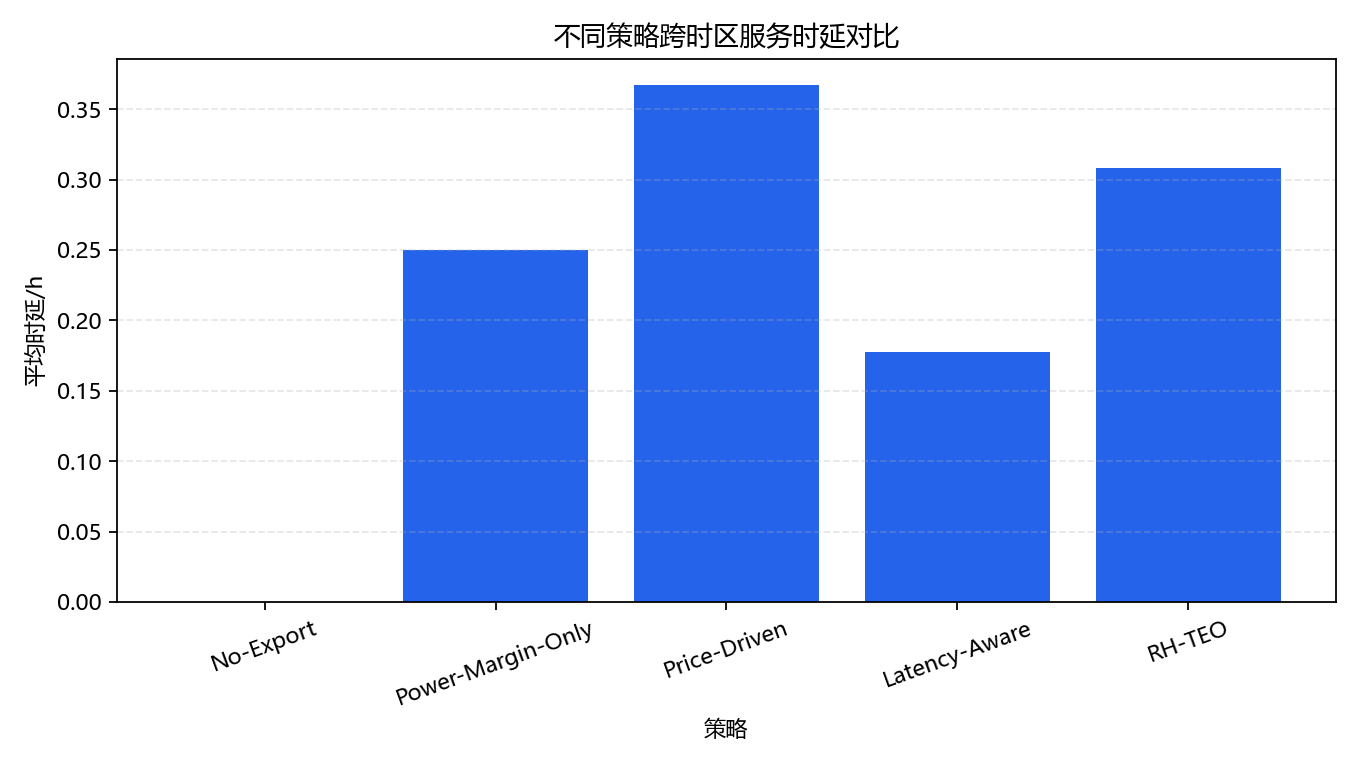
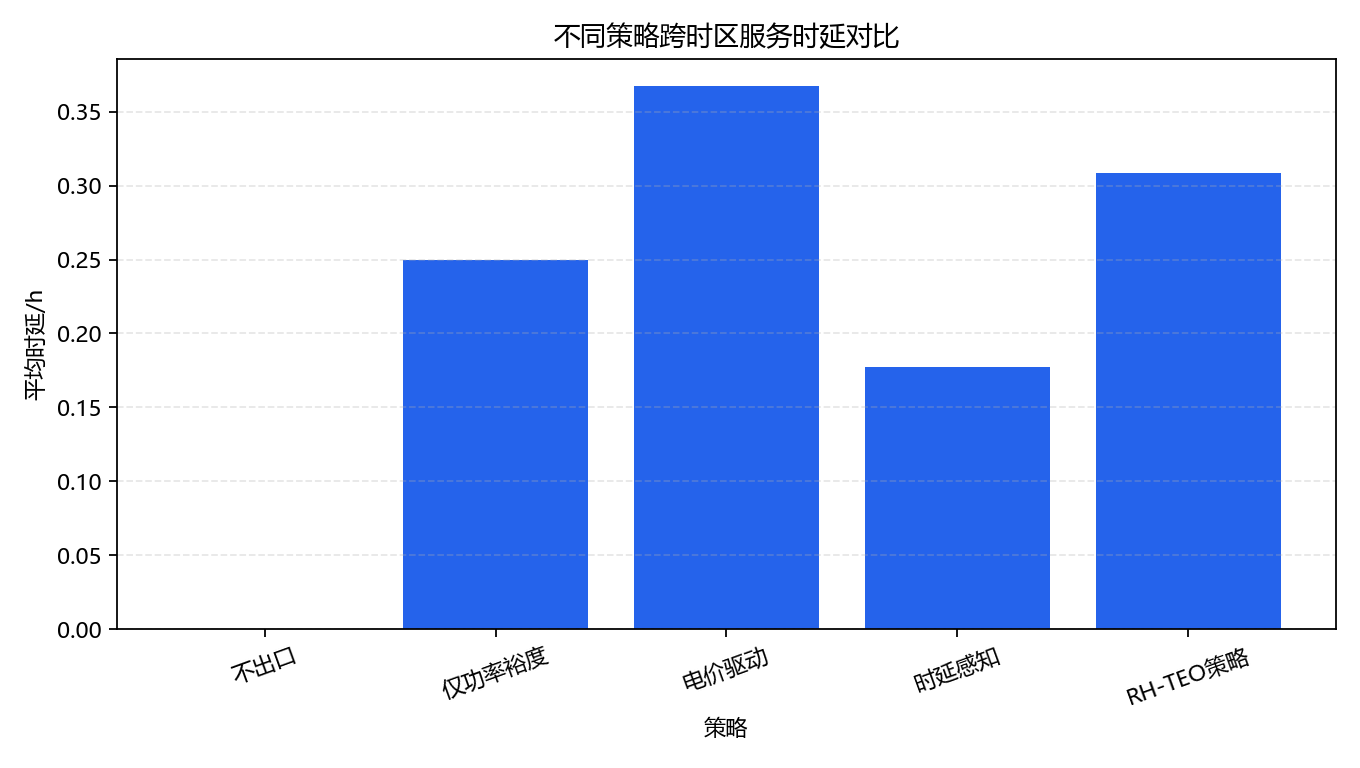
修改成中文

diff --git a/experiments/exp_token_export.py b/experiments/exp_token_export.py
@@ -18,6 +18,28 @@ REGION_COLUMNS = {
     "America": "america_export_tokens",
 }
 
+STRATEGY_LABELS = {
+    "No-Export": "不出口",
+    "Power-Margin-Only": "仅功率裕度",
+    "Price-Driven": "电价驱动",
+    "Latency-Aware": "时延感知",
+    "RH-TEO": "RH-TEO策略",
+}
+
+REGION_LABELS = {
+    "Asia": "亚洲",
+    "Europe": "欧洲",
+    "America": "美洲",
+}
+
+PARAMETER_LABELS = {
+    "base_token_sla_hours": "SLA阈值",
+    "latency_scale": "跨时区时延放大系数",
+    "america_price_multiplier": "美洲价格倍率",
+    "window_size_hours": "滚动窗口长度",
+    "token_per_margin_unit_factor": "Token产能系数",
+}
+
 
 def _token_capacity(fusion_df: pd.DataFrame, config: dict) -> pd.Series:
     return fusion_df["power_margin_norm"].clip(lower=0.0) * float(config["token_per_margin_unit"])
@@ -292,13 +314,15 @@ def _plot_region_export(region_results: pd.DataFrame, output_dir: Path) -> None:
     setup_chinese_matplotlib()
     import matplotlib.pyplot as plt
 
-    pivot = region_results.pivot(index="strategy", columns="region", values="export_tokens").fillna(0.0) / 1_000_000.0
+    plot_df = region_results.copy()
+    plot_df["strategy_label"] = plot_df["strategy"].map(STRATEGY_LABELS).fillna(plot_df["strategy"])
+    pivot = plot_df.pivot(index="strategy_label", columns="region", values="export_tokens").fillna(0.0) / 1_000_000.0
     fig, ax = plt.subplots(figsize=(9, 5))
     bottom = np.zeros(len(pivot))
     colors = {"Asia": "#2563eb", "Europe": "#16a34a", "America": "#dc2626"}
     for region in ["Asia", "Europe", "America"]:
         values = pivot[region].values if region in pivot.columns else np.zeros(len(pivot))
-        ax.bar(pivot.index, values, bottom=bottom, label=region, color=colors[region])
+        ax.bar(pivot.index, values, bottom=bottom, label=REGION_LABELS[region], color=colors[region])
         bottom += values
     ax.set_title("不同地区Token出口量对比")
     ax.set_xlabel("策略")
@@ -315,8 +339,13 @@ def _plot_bar(df: pd.DataFrame, x: str, y: str, path: Path, title: str, ylabel: 
     setup_chinese_matplotlib()
     import matplotlib.pyplot as plt
 
+    plot_df = df.copy()
+    x_col = x
+    if x == "strategy" and "strategy" in plot_df.columns:
+        plot_df["strategy_label"] = plot_df["strategy"].map(STRATEGY_LABELS).fillna(plot_df["strategy"])
+        x_col = "strategy_label"
     fig, ax = plt.subplots(figsize=(8.5, 4.8))
-    ax.bar(df[x], df[y], color="#2563eb")
+    ax.bar(plot_df[x_col], plot_df[y], color="#2563eb")
     ax.set_title(title)
     ax.set_xlabel("策略")
     ax.set_ylabel(ylabel)
@@ -355,11 +384,11 @@ def _plot_sensitivity(sensitivity: pd.DataFrame, output_dir: Path) -> None:
     axes[1].grid(True, linestyle="--", alpha=0.3)
 
     ax2b = axes[2].twinx()
-    axes[2].plot(america["value"], america["america_export_share"], marker="o", color="#f97316", label="America占比")
+    axes[2].plot(america["value"], america["america_export_share"], marker="o", color="#f97316", label="美洲占比")
     ax2b.plot(america["value"], america["net_token_profit"], marker="s", color="#2563eb", label="净收益")
-    axes[2].set_title("America价格倍率敏感性")
-    axes[2].set_xlabel("America价格倍率")
-    axes[2].set_ylabel("America出口占比")
+    axes[2].set_title("美洲价格倍率敏感性")
+    axes[2].set_xlabel("美洲价格倍率")
+    axes[2].set_ylabel("美洲出口占比")
     ax2b.set_ylabel("净收益")
     axes[2].grid(True, linestyle="--", alpha=0.3)
 
@@ -433,7 +462,7 @@ def _plot_outputs(summary: pd.DataFrame, hourly_results: pd.DataFrame, region_re
         title="RH-TEO策略下跨时区Token分配曲线",
         xlabel="小时",
         ylabel="出口Token量/百万",
-        labels={"asia_export_tokens": "Asia", "europe_export_tokens": "Europe", "america_export_tokens": "America"},
+        labels={"asia_export_tokens": "亚洲", "europe_export_tokens": "欧洲", "america_export_tokens": "美洲"},
     )
     _plot_sensitivity(sensitivity, output_dir)
 
@@ -455,27 +484,34 @@ def run_token_export(
     sensitivity = _run_sensitivity(hourly, config)
 
     results_path = save_csv(summary, output_dir / "token_export_results.csv")
-    export_csv_chinese(summary, output_dir / "token_export_results_cn.csv", RESULT_CSV_COLUMN_MAPPING)
+    summary_cn = summary.copy()
+    summary_cn["strategy"] = summary_cn["strategy"].map(STRATEGY_LABELS).fillna(summary_cn["strategy"])
+    export_csv_chinese(summary_cn, output_dir / "token_export_results_cn.csv", RESULT_CSV_COLUMN_MAPPING)
     hourly_path = save_csv(hourly_results, output_dir / "hourly_token_export.csv")
     region_path = save_csv(region_results, output_dir / "region_token_export.csv")
     sensitivity_path = save_csv(sensitivity, output_dir / "token_sensitivity_results.csv")
+    sensitivity_cn = sensitivity.copy()
+    sensitivity_cn["parameter"] = sensitivity_cn["parameter"].map(PARAMETER_LABELS).fillna(sensitivity_cn["parameter"])
+    export_csv_chinese(sensitivity_cn, output_dir / "token_sensitivity_results_cn.csv", RESULT_CSV_COLUMN_MAPPING)
     _plot_outputs(summary, hourly_results, region_results, sensitivity, output_dir)
 
     best = summary.sort_values("net_token_profit", ascending=False).iloc[0]
+    best_strategy_label = STRATEGY_LABELS.get(str(best["strategy"]), str(best["strategy"]))
+    rh_row = summary.loc[summary["strategy"] == "RH-TEO"].iloc[0]
     summary_lines = [
-        "Token export optimization summary",
-        "=" * 35,
-        "This is an extended Token export scenario derived from the fused NBSDC power margin.",
-        "NBSDC source data is not treated as containing real Token request records.",
+        "Token出口优化实验摘要",
+        "=" * 28,
+        "本实验基于 NBSDC 三层融合得到的等效功率裕度构建 Token 出口扩展场景。",
+        "NBSDC 源数据不被解释为真实 Token 请求记录。",
         "",
-        f"Token capacity coefficient: {config['token_per_margin_unit']}",
-        f"Rolling window size: {config['window_size_hours']} hours",
-        f"Best strategy by net profit: {best['strategy']}",
-        f"Best strategy net profit: {best['net_token_profit']:.6f}",
-        f"RH-TEO total export tokens: {summary.loc[summary['strategy'] == 'RH-TEO', 'total_export_tokens'].iloc[0]:.2f}",
-        f"RH-TEO SLA violation rate: {summary.loc[summary['strategy'] == 'RH-TEO', 'token_sla_violation_rate'].iloc[0]:.6f}",
+        f"Token产能系数: {config['token_per_margin_unit']}",
+        f"滚动窗口长度: {config['window_size_hours']} 小时",
+        f"最优策略: {best_strategy_label}",
+        f"最优策略净收益: {best['net_token_profit']:.6f}",
+        f"RH-TEO总出口Token量: {rh_row['total_export_tokens']:.2f}",
+        f"RH-TEO SLA违约率: {rh_row['token_sla_violation_rate']:.6f}",
         "",
-        "Generated plots: hourly_token_capacity, token_export_by_region, token_profit_comparison, cross_timezone_latency, power_margin_token_capacity_timeseries, power_to_token_curve, rh_teo_allocation_curve, token_sensitivity.",
+        "生成图表: hourly_token_capacity, token_export_by_region, token_profit_comparison, cross_timezone_latency, power_margin_token_capacity_timeseries, power_to_token_curve, rh_teo_allocation_curve, token_sensitivity。",
     ]
     summary_path = write_text(output_dir / "token_export_summary.txt", summary_lines)
 
@@ -484,5 +520,6 @@ def run_token_export(
         "hourly_token_export": hourly_path,
         "region_token_export": region_path,
         "token_sensitivity_results": sensitivity_path,
+        "token_sensitivity_results_cn": output_dir / "token_sensitivity_results_cn.csv",
         "summary": summary_path,
     }

diff --git a/experiments/exp_nbsdc_fusion.py b/experiments/exp_nbsdc_fusion.py
@@ -292,27 +292,26 @@ def run_nbsdc_fusion(
     _plot_chip_actual_vs_cap(chip_hourly, output_dir)
 
     summary_lines = [
-        "NBSDC three-layer fusion summary",
-        "=" * 38,
-        f"Cluster records: {len(cluster)}",
-        f"Server raw records: {len(server_raw)}",
-        f"Server 24h task records: {len(server_24h)}",
-        f"Chip DVFS records: {len(chip)}",
-        f"Average price: {aligned['price'].mean():.4f}",
-        f"Average hourly task arrivals: {aligned['hourly_task_arrivals'].mean():.2f}",
-        f"Average actual chip power: {aligned['hourly_actual_power_w'].mean():.4f} W",
-        f"Average chip power variation norm: {aligned['chip_power_variation_norm'].mean():.4f}",
-        f"Average chip power ratio: {aligned['chip_power_ratio'].mean():.4f}",
-        f"Average old power margin norm: {aligned['power_margin_norm_old'].mean():.4f}",
-        f"Average power margin norm: {aligned['power_margin_norm'].mean():.4f}",
-        f"Max power margin norm: {aligned['power_margin_norm'].max():.4f}",
+        "NBSDC三层数据融合摘要",
+        "=" * 28,
+        f"集群级记录数: {len(cluster)}",
+        f"服务器级原始映射记录数: {len(server_raw)}",
+        f"服务器级24小时任务记录数: {len(server_24h)}",
+        f"芯片级DVFS记录数: {len(chip)}",
+        f"平均电价: {aligned['price'].mean():.4f}",
+        f"平均小时任务到达量: {aligned['hourly_task_arrivals'].mean():.2f}",
+        f"芯片平均实际功率: {aligned['hourly_actual_power_w'].mean():.4f} W",
+        f"芯片功率波动归一化均值: {aligned['chip_power_variation_norm'].mean():.4f}",
+        f"芯片实际功率/功率上限均值: {aligned['chip_power_ratio'].mean():.4f}",
+        f"旧公式等效功率裕度均值: {aligned['power_margin_norm_old'].mean():.4f}",
+        f"新公式等效功率裕度均值: {aligned['power_margin_norm'].mean():.4f}",
+        f"新公式等效功率裕度最大值: {aligned['power_margin_norm'].max():.4f}",
         f"alpha: {alpha}",
         f"beta: {beta}",
         f"base_reserve: {base_reserve}",
         "",
-        "The fused power margin is a normalized scenario variable derived from cluster power cap, server load, and chip power response.",
+        "等效功率裕度由集群功率上限、服务器负载和芯片功率响应三层指标融合得到。",
         "由于芯片实际功率存在较高基础功耗，本文采用 min-max 归一化刻画芯片功率的相对波动，避免最大值归一化导致曲线过平。",
-        "Because chip actual power contains a high base load, this version uses min-max normalization to represent relative chip-power variation and avoids an over-flat max-normalized chip curve.",
     ]
     summary_path = write_text(output_dir / "nbsdc_fusion_summary.txt", summary_lines)
 

diff --git a/utils/metrics.py b/utils/metrics.py
@@ -43,9 +43,10 @@ RESULT_CSV_COLUMN_MAPPING = {
     "token_sla_violation_rate": "Token SLA违约率",
     "energy_per_million_tokens": "百万Token能耗/kWh",
     "cost_per_million_tokens": "百万Token成本",
-    "asia_export_tokens": "Asia出口Token量",
-    "europe_export_tokens": "Europe出口Token量",
-    "america_export_tokens": "America出口Token量",
+    "asia_export_tokens": "亚洲出口Token量",
+    "europe_export_tokens": "欧洲出口Token量",
+    "america_export_tokens": "美洲出口Token量",
+    "america_export_share": "美洲出口占比",
     "region": "地区",
     "share": "占比",
     "parameter": "参数",
